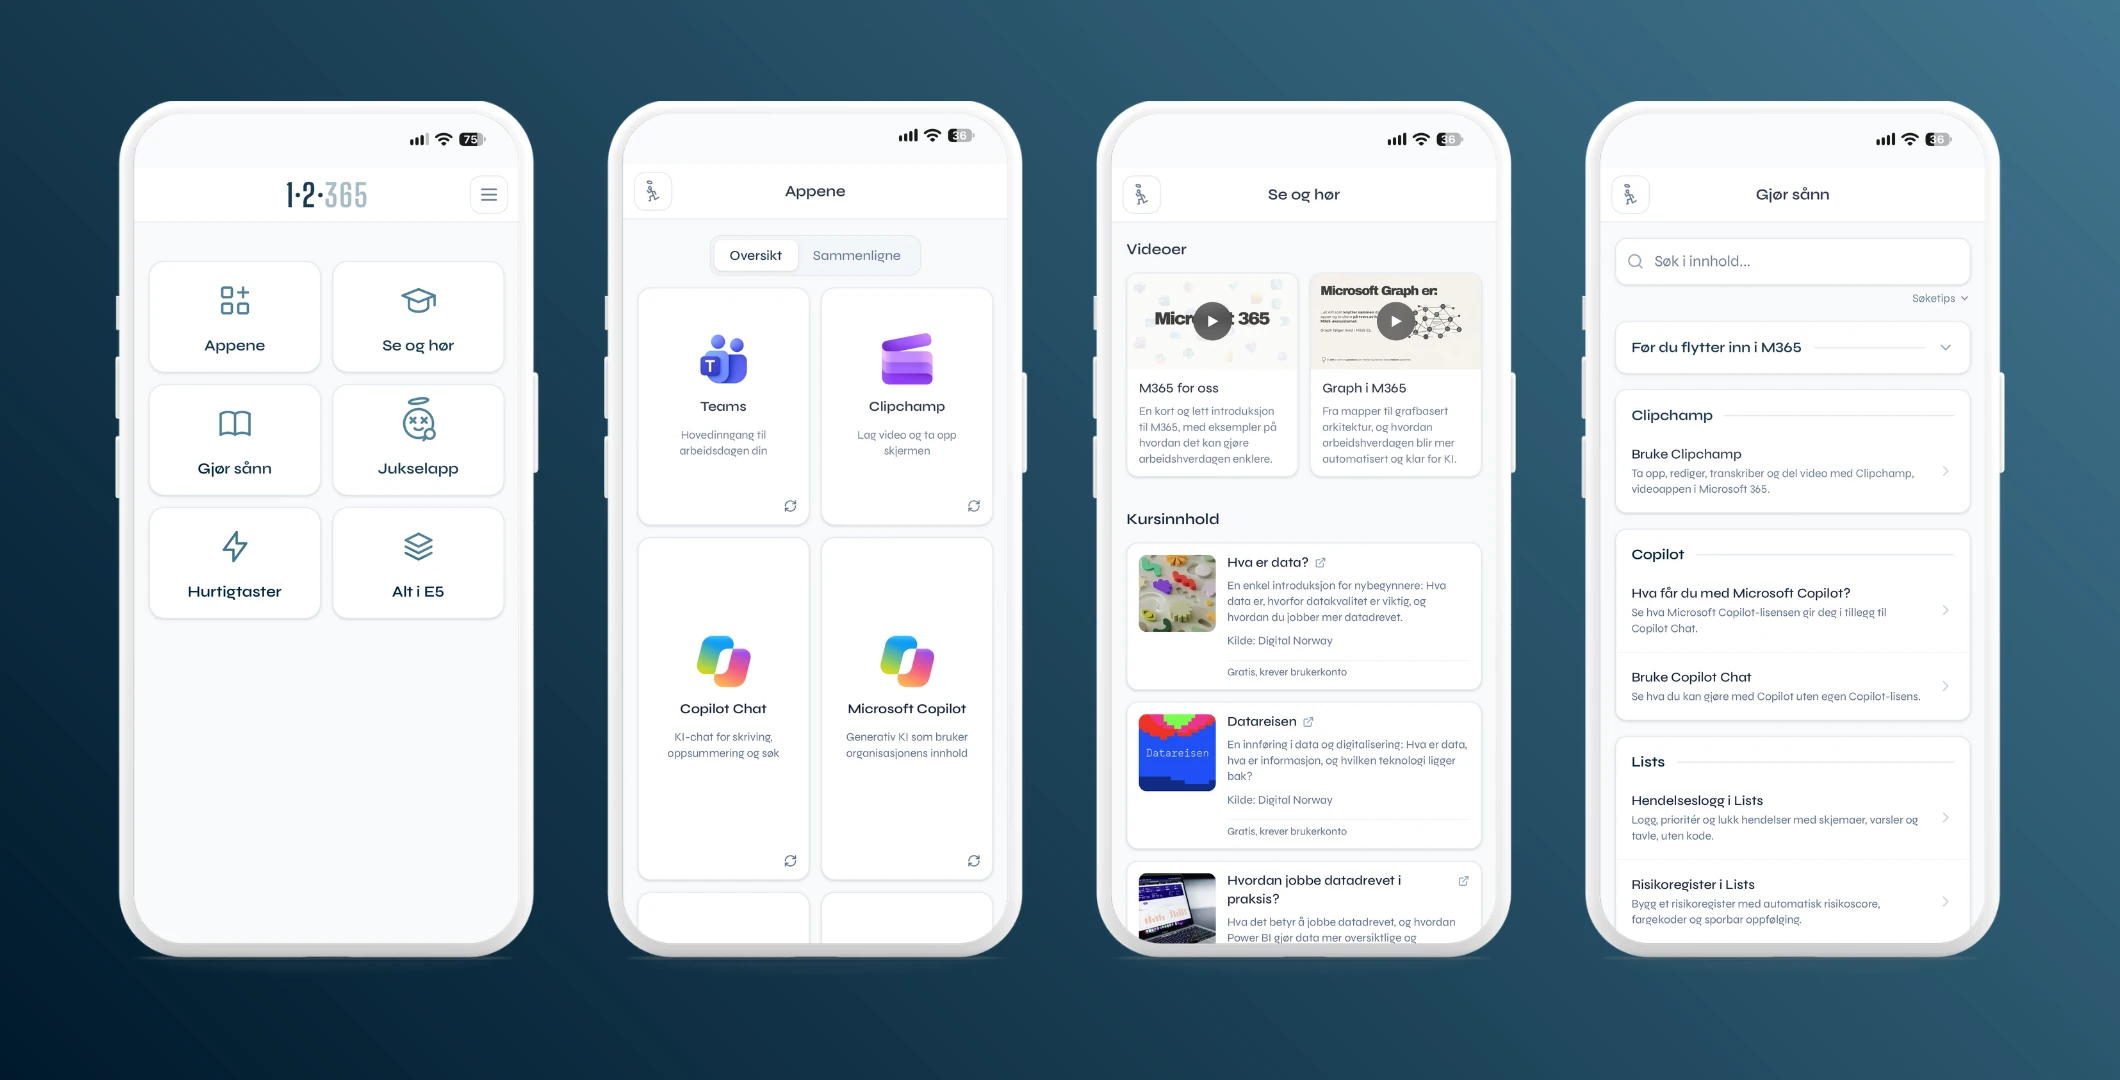
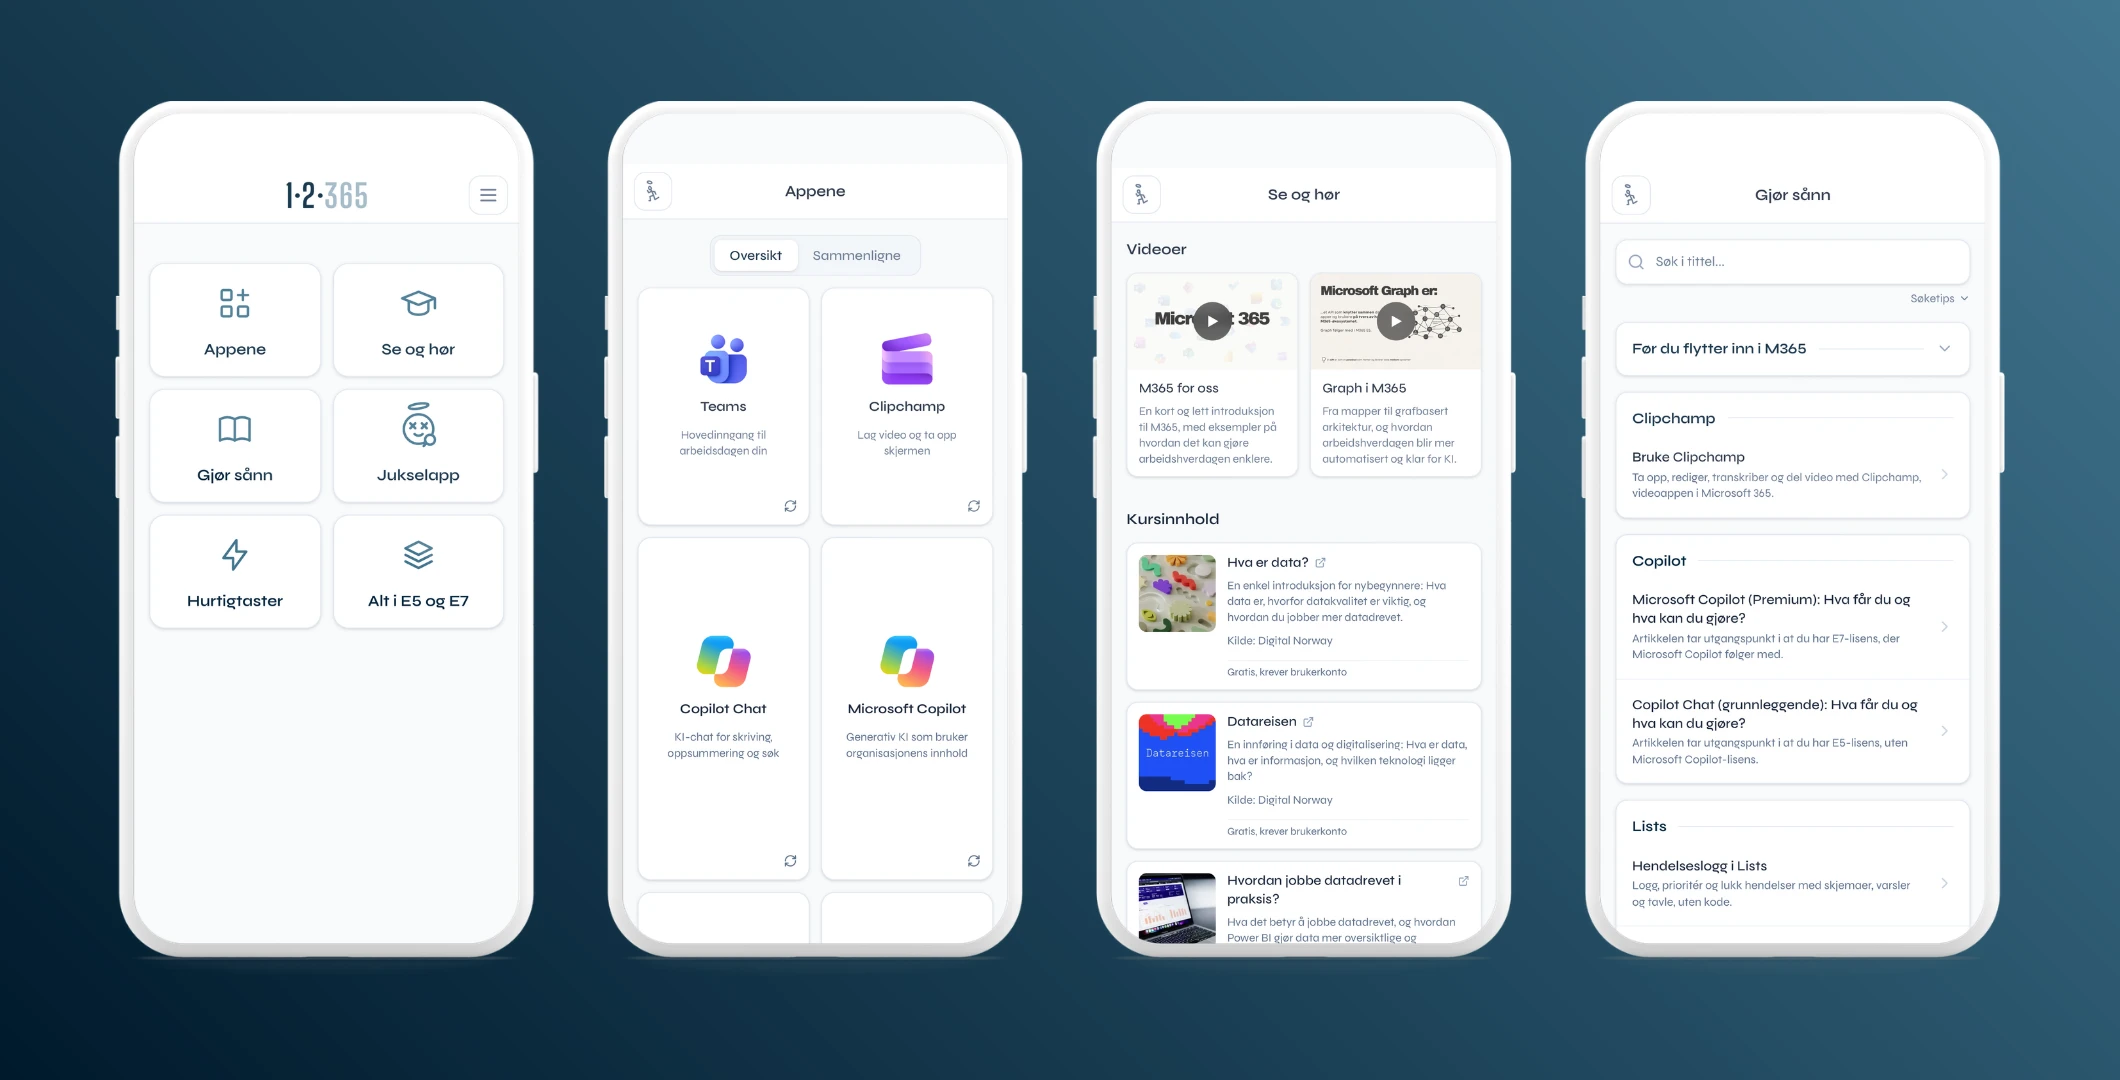
docs: README screenshots show Alt i E5 og E7 and the new Copilot articles
- oversikt-1.webp, oversikt-2.webp from elzacka's new composites (WebP q90, no metadata)
- alt text names Alt i E5 og E7

diff --git a/README.md b/README.md
@@ -14,7 +14,7 @@ Trykk på et bilde for å se det i full størrelse.
 
 <p>
   <a href="docs/screenshots/oversikt-1.webp"><img width="49%" alt="Fire skjermbilder fra 1-2-365: Startsiden, Appene, Se og hør og Gjør sånn" src="docs/screenshots/oversikt-1.webp"></a>
-  <a href="docs/screenshots/oversikt-2.webp"><img width="49%" alt="Fire skjermbilder fra 1-2-365: En veiledning i Lists, Jukselapp, Hurtigtaster og Alt i E5" src="docs/screenshots/oversikt-2.webp"></a>
+  <a href="docs/screenshots/oversikt-2.webp"><img width="49%" alt="Fire skjermbilder fra 1-2-365: En veiledning i Lists, Jukselapp, Hurtigtaster og Alt i E5 og E7" src="docs/screenshots/oversikt-2.webp"></a>
 </p>
 
 ## Tech stack
